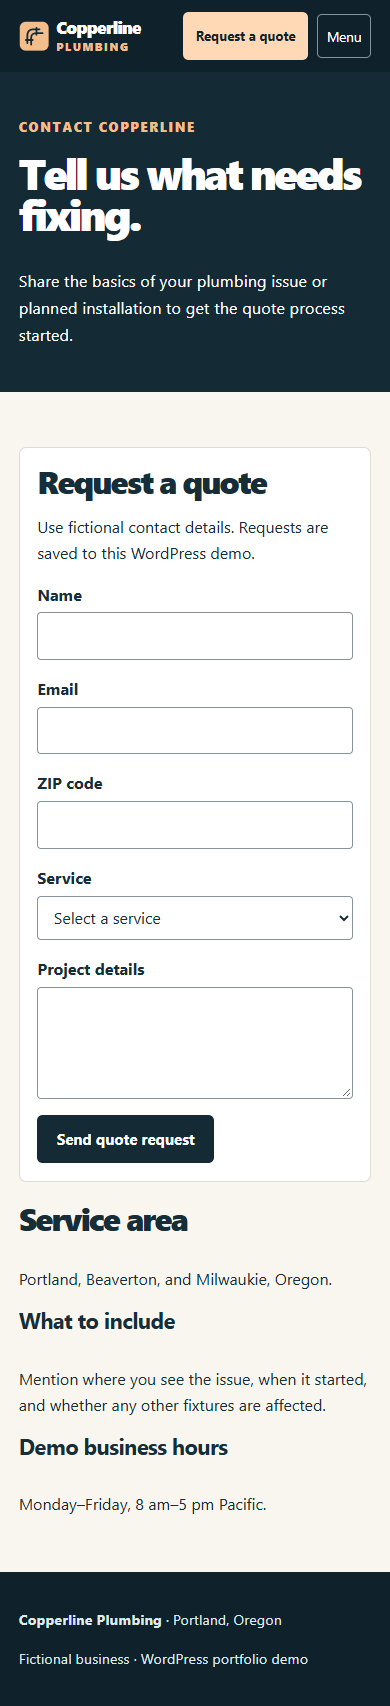
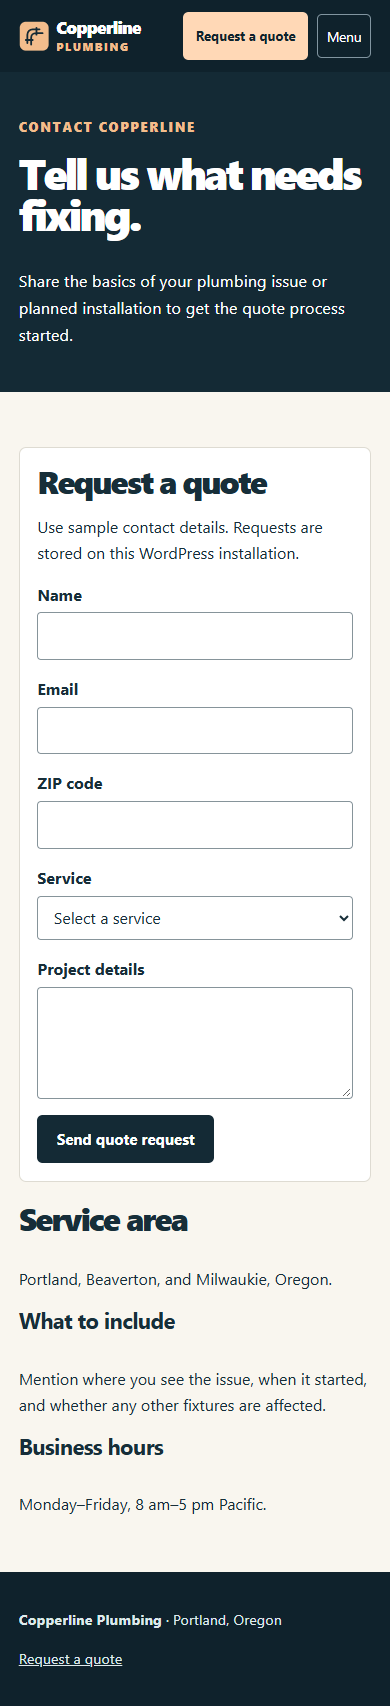
Present Copperline as a branded plumbing case study

diff --git a/plugins/copperline-quotes/copperline-quotes.php b/plugins/copperline-quotes/copperline-quotes.php
@@ -1,7 +1,7 @@
 <?php
 /**
  * Plugin Name: Copperline Quotes
- * Description: Validates a demo quote form and stores submissions in the local WordPress database.
+ * Description: Validates Copperline quote requests and stores submissions in the local WordPress database.
  * Version: 1.0.0
  * Requires PHP: 8.1
  * License: GPL-2.0-or-later
@@ -121,9 +121,9 @@ final class Copperline_Quotes
         ?>
         <form class="cl-form" id="quote" action="<?php echo esc_url(get_permalink() . '#quote'); ?>" method="post" aria-labelledby="cl-form-title">
             <h2 id="cl-form-title">Request a quote</h2>
-            <p>Use fictional contact details. Requests are saved to this WordPress demo.</p>
+            <p>Use sample contact details. Requests are stored on this WordPress installation.</p>
             <?php if ($received) : ?>
-                <div class="cl-status" role="status"><strong>Quote request received.</strong> Your demo request was saved.</div>
+                <div class="cl-status" role="status"><strong>Quote request received.</strong> Your request was saved.</div>
             <?php elseif (self::$errors) : ?>
                 <div class="cl-status cl-error" role="alert">
                     <?php if (isset(self::$errors['form'])) : ?>

diff --git a/scripts/seed.php b/scripts/seed.php
@@ -1,6 +1,6 @@
 <?php
 /**
- * Run with wp eval-file scripts/seed.php from a dedicated demo installation.
+ * Run with wp eval-file scripts/seed.php from a dedicated local installation.
  */
 
 if (!class_exists('Elementor\Plugin') || !class_exists('Copperline_Quotes') || 'copperline' !== get_stylesheet()) {
@@ -12,7 +12,7 @@ $pages = [];
 foreach (['home' => 'Home', 'services' => 'Services', 'about' => 'About', 'contact' => 'Contact'] as $slug => $title) {
     $page = get_page_by_path($slug);
     if ($page && !get_post_meta($page->ID, '_copperline_seed', true)) {
-        WP_CLI::error("A page with slug {$slug} already exists. Use a fresh demo site.");
+        WP_CLI::error("A page with slug {$slug} already exists. Use a fresh WordPress installation.");
     }
     if (!$page) {
         $id = wp_insert_post([

diff --git a/theme/copperline/footer.php b/theme/copperline/footer.php
@@ -1,7 +1,7 @@
 <footer class="cl-footer">
     <div class="cl-wrap">
         <p><strong>Copperline Plumbing</strong> · Portland, Oregon</p>
-        <p>Fictional business · WordPress portfolio demo</p>
+        <p><a href="<?php echo esc_url(copperline_contact_url()); ?>">Request a quote</a></p>
     </div>
 </footer>
 <?php wp_footer(); ?>

diff --git a/README.md b/README.md
@@ -1,20 +1,29 @@
 # Copperline Plumbing
 
-Copperline is a fictional residential plumbing business in Portland, Oregon. The WordPress demo has four Elementor pages, a responsive navigation menu, and a local quote workflow from the home page through confirmation.
+**Residential plumbing website · WordPress and Elementor**
 
-## Portfolio walkthrough
+Copperline’s website gives Portland-area homeowners a way to find the right plumbing service and request a quote from their phone. The four-page site introduces the services and the crew, then leads visitors to a short quote form with a clear confirmation.
 
-1. Open Home and browse Services and About. At mobile width, open the menu and use the persistent header quote button.
-2. Click **Request a quote**. Try leaving a required field blank, then submit with fictional details such as `Taylor Example`, `taylor@example.test`, and ZIP code `97201`. Choose Leak or pipe repair and describe a slow drip below a kitchen sink.
-3. Confirm the success message, then check **Quote Requests** in WordPress admin. The plugin validates fields and a WordPress nonce at the server, stores a private record, and redirects after a successful POST. It sends no email.
-4. Open any page with **Edit with Elementor**. The headlines, copy, layout containers, and buttons use free widgets. The photo and form use the free Shortcode widget.
+![Copperline Plumbing homepage](screenshots/desktop-home.png)
+
+## Project brief
+
+Make it easy for a homeowner to tell whether Copperline handles their job and to request an estimate. Use a responsive layout with a visible quote button and give site editors control over the page content in Elementor Free.
+
+## Implementation
+
+- A custom WordPress theme provides the responsive header, menu, and quote links.
+- Home, Services, About, and Contact use editable Elementor containers and free widgets. The hero photo and quote form are placed with the Shortcode widget.
+- The quote plugin validates fields and a WordPress nonce on the server, saves a private record under **Quote Requests**, and redirects to a confirmation after a successful POST. Requests stay on the installation.
+
+This is an independent portfolio project for a fictional Portland plumbing brand.
 
 ## Run locally
 
 Use a fresh local WordPress installation with PHP 8.1+ and MySQL or MariaDB. Enable the usual WordPress PHP extensions including mbstring. Create a local admin account and run these commands from the WordPress root. Set `PROJECT` to the absolute path of this checkout. On Windows, run the commands in Git Bash or copy the two directories with File Explorer before using WP-CLI.
 
 ```sh
-PROJECT="/absolute/path/to/home-services-wordpress-demo"
+PROJECT="/absolute/path/to/copperline-plumbing-wordpress"
 cp -R "$PROJECT/theme/copperline" wp-content/themes/
 cp -R "$PROJECT/plugins/copperline-quotes" wp-content/plugins/
 wp plugin install elementor --activate
@@ -24,6 +33,8 @@ wp eval-file "$PROJECT/scripts/seed.php"
 ```
 
 Use the URL printed by the seed script. For pretty permalinks, run WordPress on a local stack with URL rewrites enabled, such as Local, Apache with mod_rewrite, or a WordPress Docker environment. The seed script leaves existing Elementor content on its seeded pages in place when rerun. It will stop if a same-slug page belongs to another site setup.
+
+To try the quote journey, submit sample details such as `Taylor Example`, `taylor@example.test`, and ZIP code `97201`. Choose **Leak or pipe repair** and describe a slow drip below a kitchen sink. Check the confirmation and the saved entry under **Quote Requests** in WordPress admin.
 
 ## Verification
 
